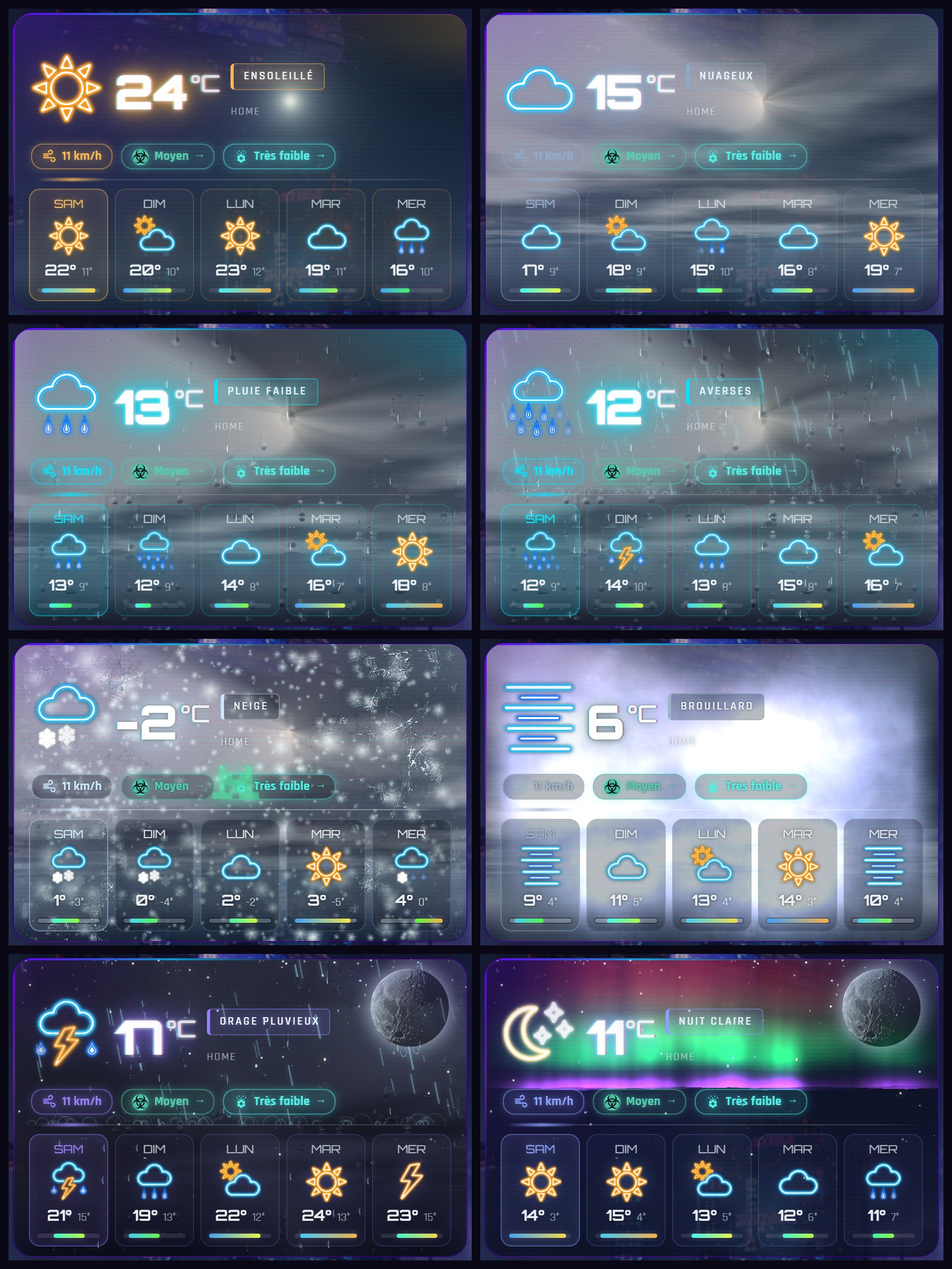
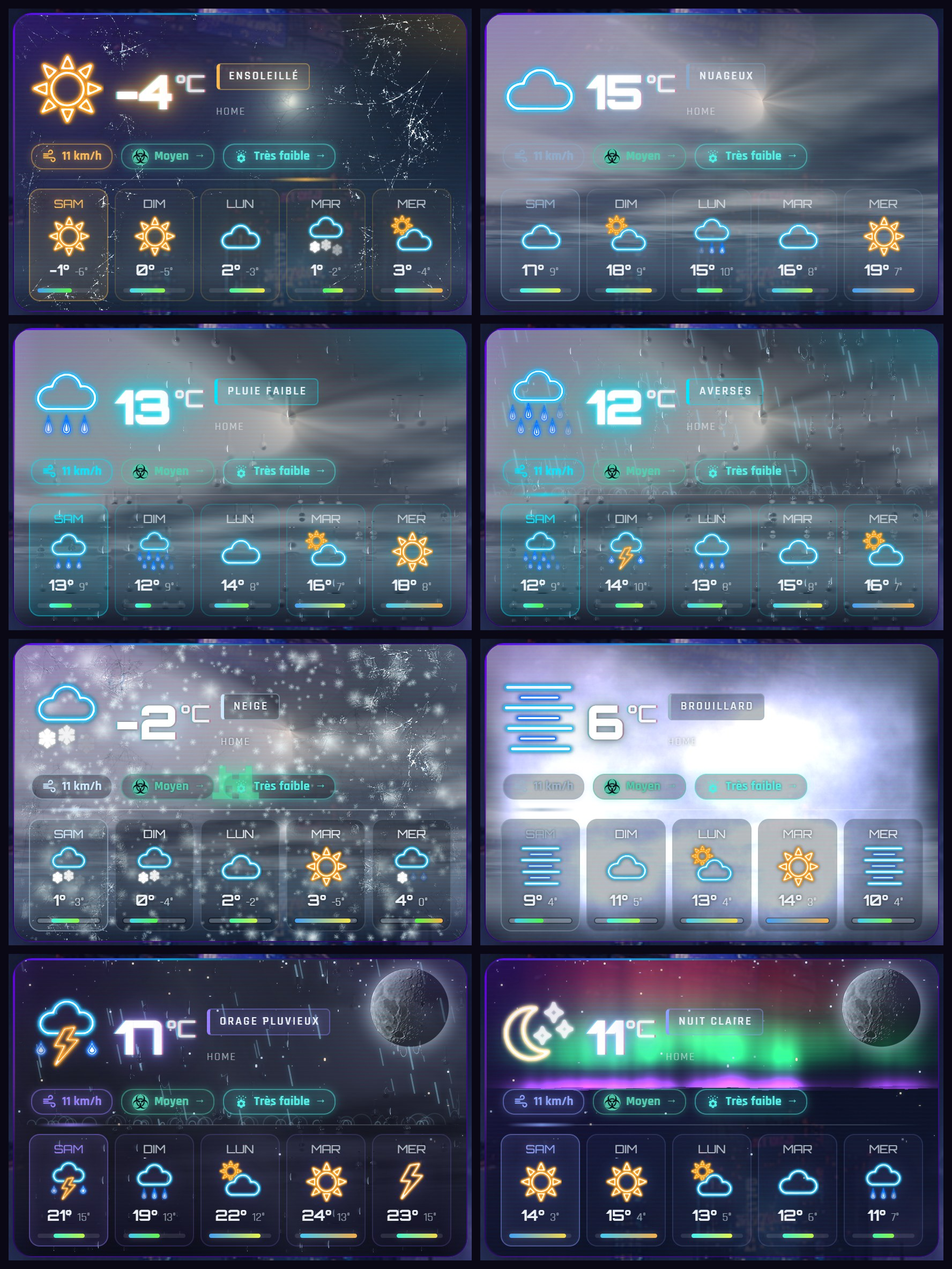
README: show frost in the scenes mosaic

diff --git a/README.md b/README.md
@@ -11,7 +11,7 @@
 
 [![Open your Home Assistant instance and open this repository in HACS.](https://my.home-assistant.io/badges/hacs_repository.svg)](https://my.home-assistant.io/redirect/hacs_repository/?owner=cerealkiller57540&repository=weather-neon-card&category=plugin)
 
-<img src="https://raw.githubusercontent.com/cerealkiller57540/weather-neon-card/main/images/scenes.jpg" alt="Weather Neon Card in eight conditions: sunny, cloudy, light rain, heavy rain, snow with frost, fog, thunderstorm at night with the moon, and a clear night with an aurora" width="900">
+<img src="https://raw.githubusercontent.com/cerealkiller57540/weather-neon-card/main/images/scenes.jpg" alt="Weather Neon Card in eight conditions: frost on a sunny freezing day, cloudy, light rain, heavy rain, snow with frost, fog, thunderstorm at night with the moon, and a clear night with an aurora" width="900">
 
 </div>
 
